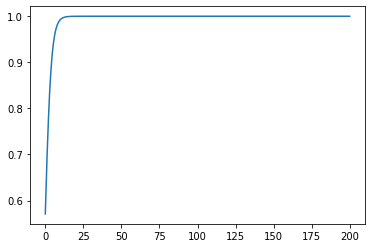
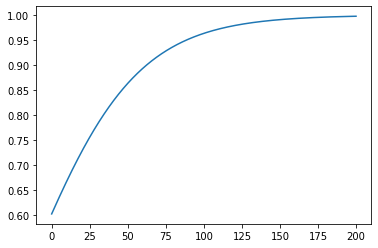
add starting

diff --git a/draw.py b/draw.py
@@ -1,3 +1,4 @@
+from typing import BinaryIO
 import torch
 import torchvision
 from torch.utils.tensorboard import SummaryWriter
@@ -6,21 +7,24 @@ import numpy as np
 import torch
 import matplotlib.pyplot as plt
 
-x = torch.tensor([3.0])  # 蘋果單價
-y = torch.tensor([18.0]) # 我們的預算
-a = torch.tensor([1.0], requires_grad=True)  # 追蹤導數
-print('grad:', a.grad)
-loss = y - (a * x)  # loss function ( 中文稱 損失函數 )
-loss.backward()
-print('grad:', a.grad)
+from sklearn.datasets import make_regression
+np_x, np_y = make_regression(n_samples=500, n_features=10)
+x = torch.from_numpy(np_x).float()
+y = torch.from_numpy(np_y).float()
+w = torch.randn(10, requires_grad=True)
+b = torch.randn(1, requires_grad=True)
+optimizer = torch.optim.SGD([w, b], lr=0.01)
+def model(x):
+    return x @ w + b
 
-# Writer will output to ./runs/ directory by default
-writer = SummaryWriter()
+predict_y = model(x)
+plt.figure(figsize=(20, 10))
+plt.subplot(1, 2, 1)
+plt.plot(y)
+plt.plot(predict_y.detach().numpy())
+plt.subplot(1, 2, 2)
+plt.scatter(y.detach().numpy(), predict_y.detach().numpy())
+plt.show()
 
-for _ in range(100):
-    a.grad.zero_()
-    loss = y - (a * x)
-    loss.backward()
-    with torch.no_grad():
-        a -= a.grad * 0.01 * loss
-    writer.add_scalar('loss', loss, _)
+# writer = SummaryWriter()
+# writer.add_figure('figure', plt.gcf())

diff --git a/README.md b/README.md
@@ -2,9 +2,22 @@
 
 #### 以下文章可以搭配.ipynb檔實作
 
+###### [基本操作](./starting.ipynb)
+
 - [基本概念](https://hackmd.io/@Daniel-Lo/pytorch_basic)
     - [basic.ipynb](./basic.ipynb)
 - [激勵函數](https://hackmd.io/@Daniel-Lo/pytorch_activation)
     - [Activation_Function.ipynb](./Activation_Function.ipynb)
 
 #### [Azure 開放資料集文件](https://docs.microsoft.com/zh-tw/azure/open-datasets)
+
+### 視覺化工具
+
+#### TensorBoard
+
+安裝指令
+`pip install tensorboard`
+
+執行
+`tensorboard --logdir=runs`
+預設資料會放在runs資料夾
